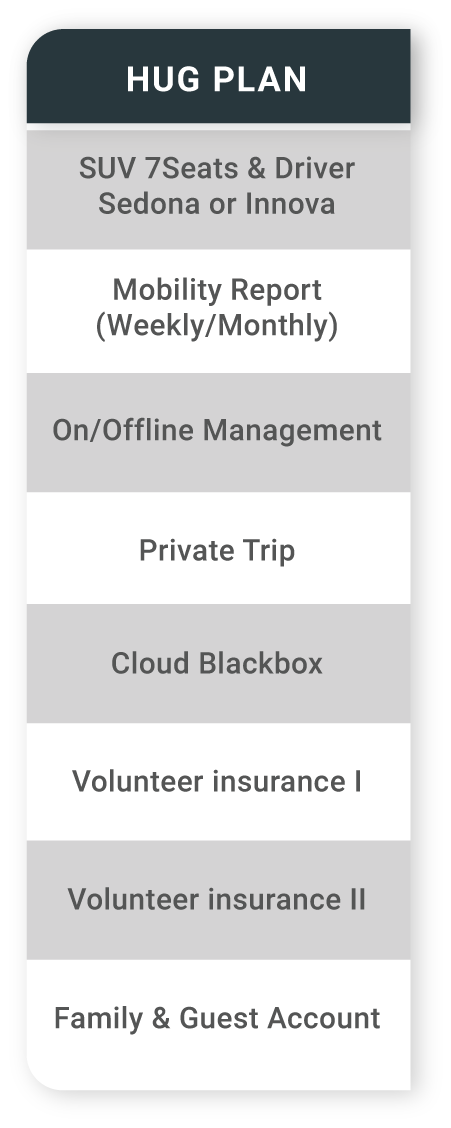
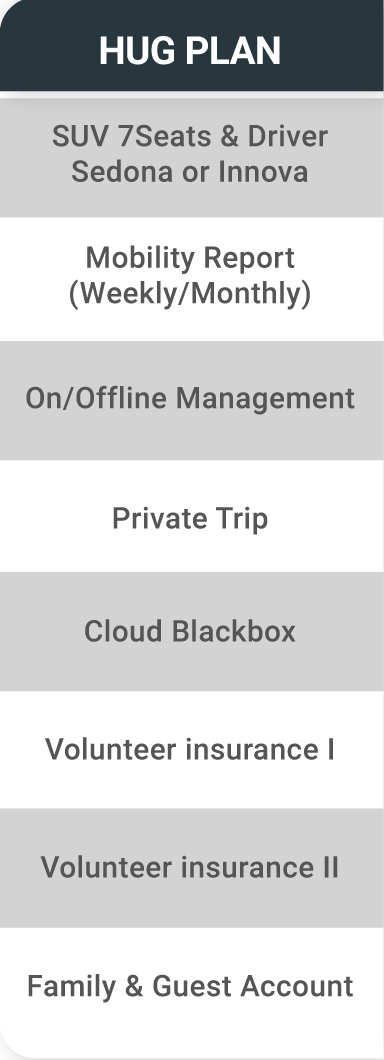
fix size

diff --git a/css/style.css b/css/style.css
@@ -1,7 +1,7 @@
 body{
     background-color: #DCDBDB;
     margin: -5px -2px;
-    min-width: 1850px;
+    min-width: 1360px;
 }
 *, ::before, ::after {
     box-sizing: border-box;
@@ -28,7 +28,7 @@ html{
     margin-bottom: 100px;
 }
 .logo > p{
-    font-size: 31px;
+    font-size: 25px;
     display: inline-block;
     align-content: center;
     position: relative;
@@ -36,9 +36,9 @@ html{
     left: 13px;
 }
 .logo > ul > li {
-    font-size: 31px;
+    font-size: 25px;
     float: left;
-    padding-right: 70px;
+    padding-right: 30px;
 }
 .logo > ul {
     list-style: none;
@@ -48,13 +48,16 @@ html{
 }
 .header-content{
     position: relative;
-    top: 31%
+    top: 21%
 }
 .header-content > img{
     float: right;
     position: relative;
-    top: -500px;
-/*    right: 10%*/
+    top: -400px;
+    min-width: 300px;
+    right: 5%;
+    max-width: 500px;
+    margin-bottom: 15em;
 }
 .header-content-child{
     position: relative;
@@ -62,12 +65,12 @@ html{
     width: 60%
 }
 .header-content-child > img{
-    
+    width: 50%
 }
 .header-content-child > p{
     display: inline-block;
     color: #FFF;
-    font-size: 55px;
+    font-size: 45px;
     font-weight: bold;
     letter-spacing: 0.04em;
     position: relative;
@@ -77,17 +80,18 @@ html{
 }
 .header-content-child > h2{
     color: #FFF;
-    font-size: 50px;
+    font-size: 40px;
     font-weight: 100;
-    margin-bottom: 5px;
+    margin-bottom: 25px;
 }
 .header-content-child > h5{
     color: #FFF;
-    font-weight: 100;
-    font-size: 28px;
-    width: 68%;
-    font-family: roboto light;
+    font-weight: 400;
+    font-size: 26px;
+    width: 88%;
+    font-family: roboto;
     margin: 0px;
+    letter-spacing: 0.04em;
 }
 .footer{
     width: 100%;
@@ -134,17 +138,26 @@ html{
 }
 .container-1{
     width: 100%;
-    height: 500px;
+    height: 650px;
 /*    background-color: #FFF;*/
     display: flex
 }
 .container-1-content{
     color: #1A6472;
     width: 40%;
-    position: relative; top: -400px;
+    position: relative;
+    top: -300px;
+}
+#car{
+    position: relative;
+    top: 50%;
+    width: 150%;
+    right: -5%;
+    max-width: 850px;
+    
 }
 .container-1-content > h1{
-    font-size: 55px
+    font-size: 45px
 }
 .container-1-info{ 
     display: flex;
@@ -152,12 +165,14 @@ html{
 }
 .container-1-info > ul {
     list-style: none;
-    width: 35%;
+    width: 40%;
+    position: relative;
+    left: -8%;
 }
 .container-1-info >ul li{
     padding-top: 10px;
-    padding-left: 3px
-    font-size: 20px; 
+    padding-left: 3px;
+    font-size: 15px;
 }
 .container-2{
     z-index: 2;
@@ -172,7 +187,7 @@ html{
     right: 7%;
     text-align: right;
     color: #FFF;
-    margin: 100px 0;
+    margin: 70px 0;
 }
 .container-2-header > h2{
     font-size: 60px;
@@ -180,17 +195,22 @@ html{
 }
 .container-2-header > ul{
     list-style: none;
+    margin: 50px 0;
 }
 .container-2-header > ul > li{
     float:left;
     position: relative;
-    left: 1%;
-    width: 414px;
-    height: 401px;
-    background: url(../uploads/1x/72ppi/72ppi/backgroung-container-items.png);
+/*    left: 1%;*/
+    width: 24%;
+    height: 330px;
+/*    background: url(../uploads/1x/72ppi/72ppi/backgroung-container-items.png);*/
+    background: #FFF;
+    border-radius: 20px;
+    background-size: cover;
     align-items: center;
     align-content: center;
     display: flex;
+    margin-right: 1%;
     flex-direction: column;
     justify-content: center;
     color: #1A6472;
@@ -202,7 +222,7 @@ html{
 }
 .container-2-header > ul > li > h5{
     margin: 0 0 20px 0;
-    font-size: 20px;
+    font-size: 15px;
 }
 .container-2-header > ul > li >ul{
     list-style: square;
@@ -210,7 +230,7 @@ html{
 }
 .container-2-header > ul > li > ul >li{
     text-align: -webkit-center;
-    width: 87%;
+    width: 97%;
 }
 .container-2-content{
     display: flex;
@@ -240,10 +260,12 @@ html{
 }
 .container-2-mslide{
     position: relative;
-    left: 5%;
-    width: 1440px;
-    height: 918px;
+    left: -1%;
+    min-width: 1000px;
+    width: 80%;
+    height: 718px;
     background: url(../uploads/1x/72ppi/web.png);
+    background-size: cover;
 }
 .container-2-mslide > p{
     
@@ -252,7 +274,7 @@ html{
     position: relative;
     float: right;
     top: 30%;
-    right: 15%;
+/*    right: 15%;*/
 }
 .phone-on-slide > ul{
     list-style: none;
@@ -275,7 +297,7 @@ html{
 .container-2-end{
     width: 40%; 
     position: relative;
-    top: -150px;
+/*    top: -150px;*/
     left: -8%;
 }
 .container-2-end > div{
@@ -289,7 +311,7 @@ html{
     margin-bottom: 20px;
 }
 .container-2-end > p{
-    font-size: 22px;
+    font-size: 21px;
     font-weight: 100;
 }
 .container-2-end > img{
@@ -318,12 +340,16 @@ html{
     justify-content: center;
     color: #FFF;
 }
+.container-3 ul li img{
+    max-width: 250px;
+}
 .container-3 ul{
     list-style: none;
 }
 .container-3 ul li{
     float: left;
-    padding-right: 15px
+    padding-right: 15px;
+    width: 20%;
 }
 .container-3 h1{
     font-size: 60px
@@ -337,8 +363,12 @@ html{
     font-weight: 100;
     margin: 0 0 30px 0;
 }
-@media screen (and max-width: 1360px){
+@media screen and (min-width: 1460px){
     .header, .container-1, .container-2, .container-3{
         width: 100%;
+    }
+    .container-2-header > ul{
+        position: relative;
+        right: 12%;
     }
 }

diff --git a/html/index.html b/html/index.html
@@ -57,7 +57,7 @@
                 </div>
             </div>
             <div class="container-1-content" style="left: -5%;">
-                <img src="../uploads/1x/72ppi/Asset%2015.png" style="position: relative; right: 5%">
+                <img id="car" src="../uploads/1x/72ppi/Asset%2015.png" >
             </div>
         </div>
         <div class="container-2">
@@ -156,7 +156,8 @@
                 <h1>Sevice Package</h1>
                 <h5>Find out HUG Service Package Coverage</h5>
                 <ul>
-                    <li style="position: relative; top: -31px; left: 35px"><img src="../uploads/1x/72ppi/hug-col.png"></li>
+                    <li ><img style="height: 983px;" src="../uploads/1x/72ppi/hug-col.png"></li>
+<!--                    <li><img src="../uploads/1x/1x/hug-col.png"></li>-->
                     <li><img src="../uploads/1x/72ppi/legacy-col.png"></li>
                     <li><img src="../uploads/1x/72ppi/standard-col.png"></li>
                     <li><img src="../uploads/1x/72ppi/deluxe-col.png"></li>
@@ -195,8 +196,8 @@
                         <div style="background: url(../uploads/1x/72ppi/72ppi/Asset%203.png)">
                         </div>  
 -->
-                        <img src="../uploads/1x/72ppi/72ppi/Asset%202.png">
-                        <img style="margin-left: 10px" src="../uploads/1x/72ppi/72ppi/Asset%203.png">
+                        <img style="width: 80%" src="../uploads/1x/72ppi/72ppi/Asset%202.png">
+                        <img style="margin-left: 10px; width: 80%" src="../uploads/1x/72ppi/72ppi/Asset%203.png">
                     </div>
                 </div>
             </div>
